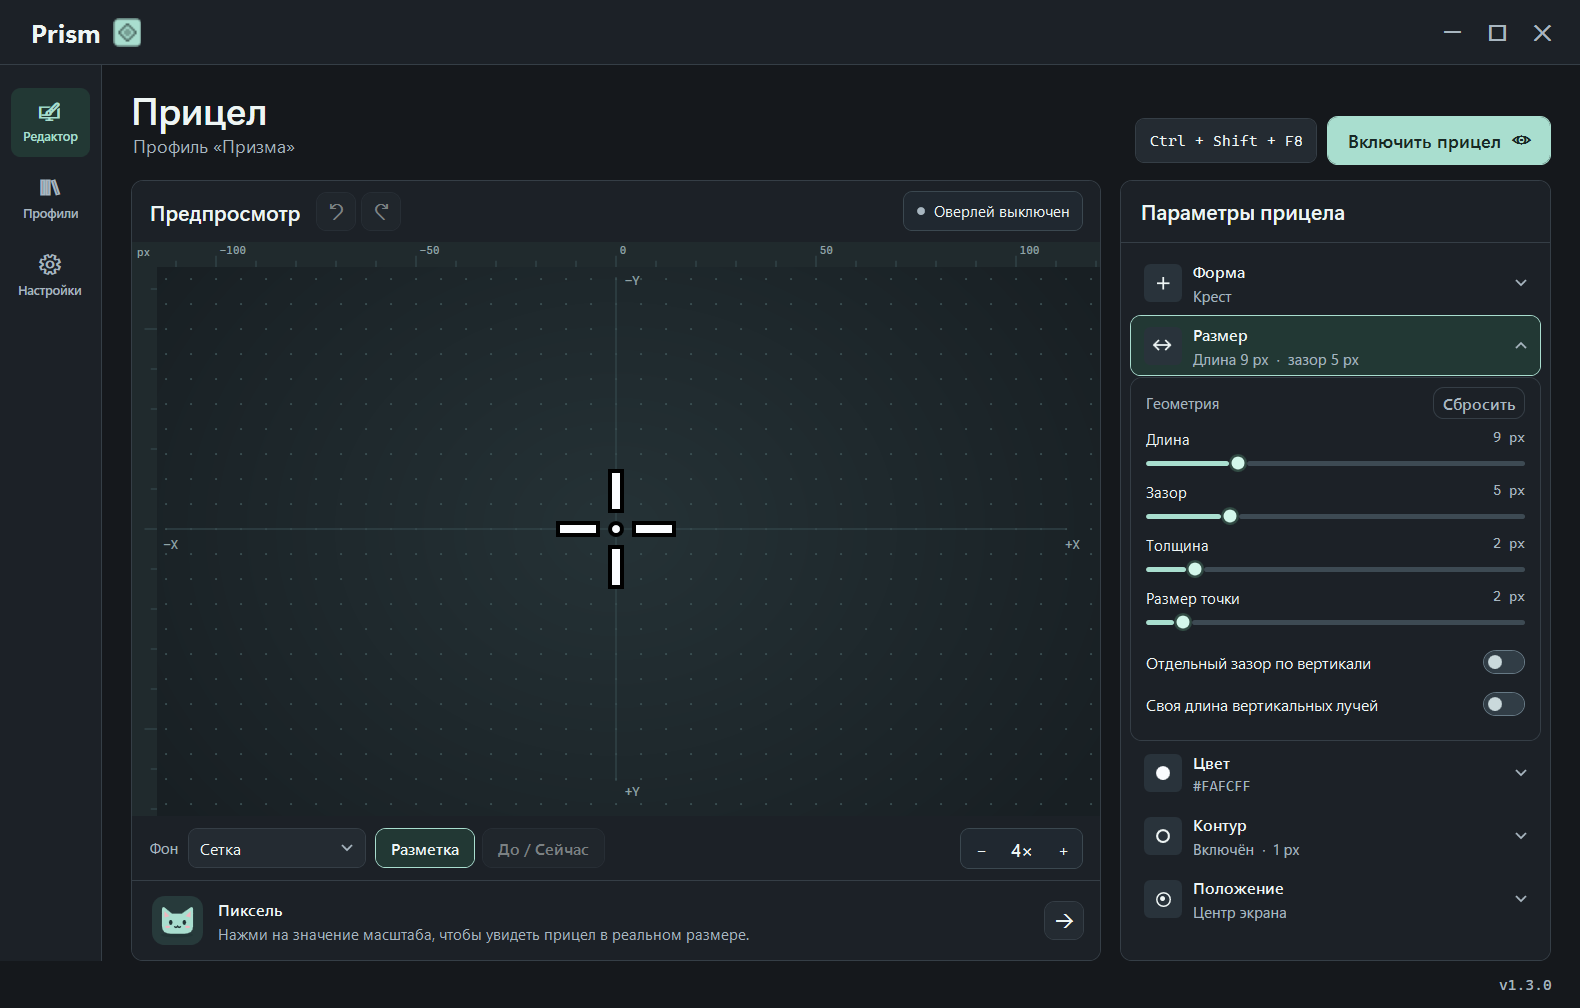
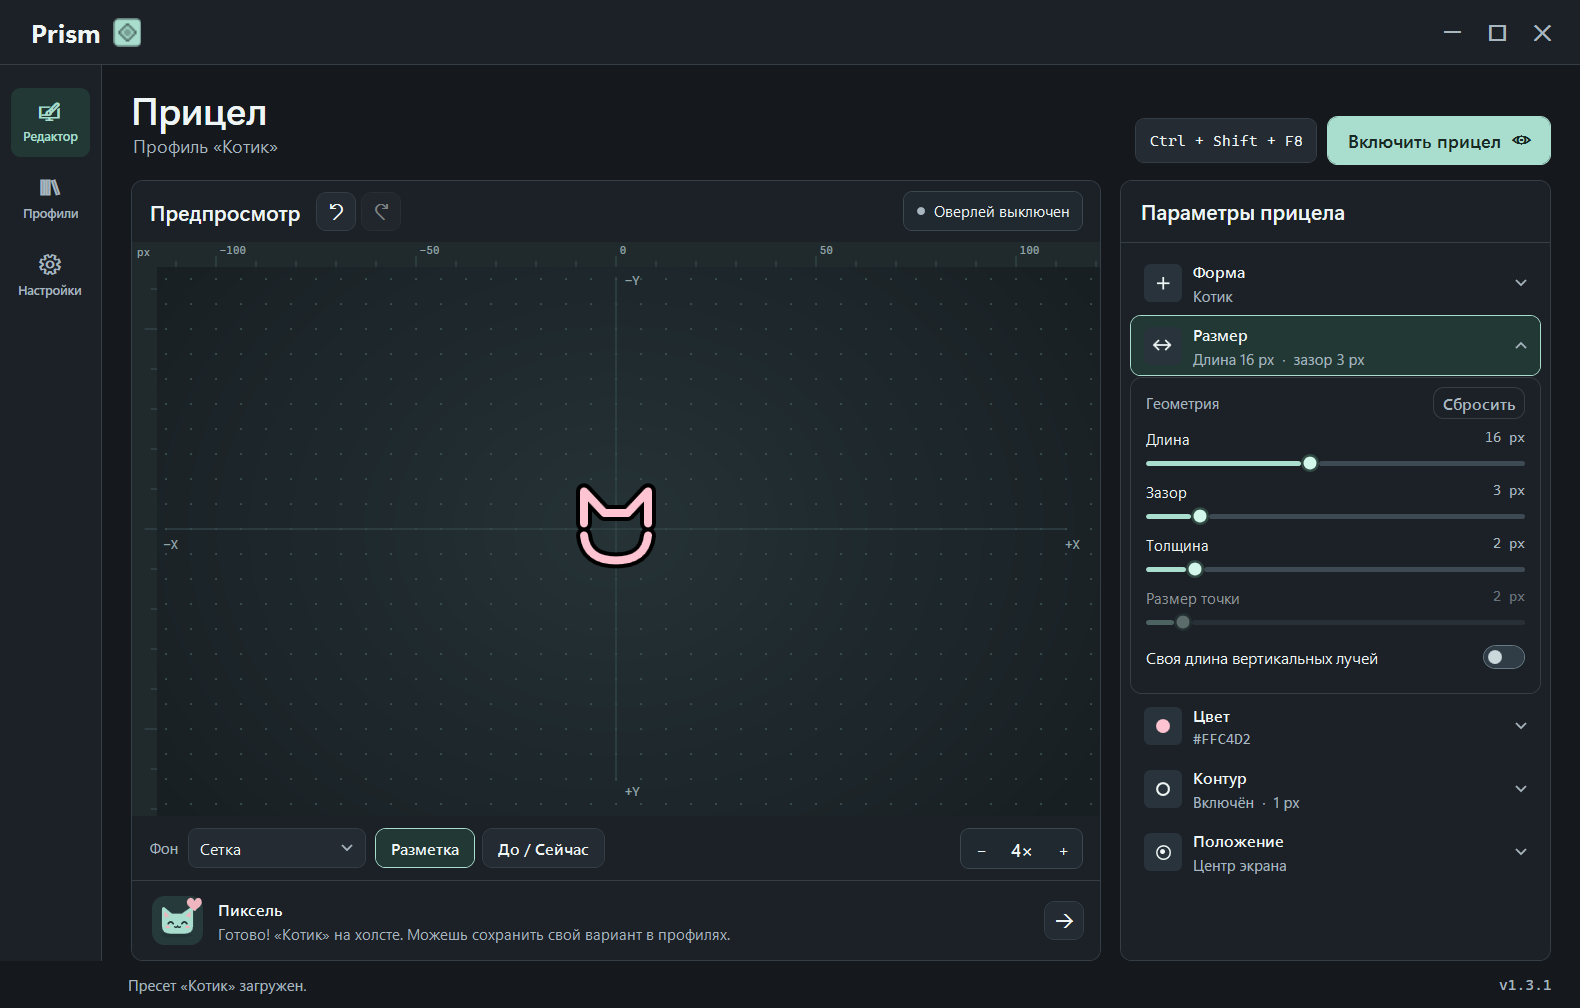
Add Pixel pet interaction and cat crosshair

diff --git a/MainWindow.xaml b/MainWindow.xaml
@@ -112,9 +112,11 @@
                   <Button DockPanel.Dock="Right" Style="{StaticResource IconButton}" Content="&#xE72A;" Width="32" VerticalAlignment="Center"
                           Click="NextTipClick" AutomationProperties.Name="Следующая подсказка" ToolTip="Следующая подсказка"/>
                   <Button DockPanel.Dock="Left" Width="47" Height="44" BorderThickness="0" Background="Transparent" Padding="0"
-                          VerticalAlignment="Center" Click="NextTipClick" AutomationProperties.Name="Пиксель. Следующая подсказка" Margin="0,0,9,0">
+                          VerticalAlignment="Center" Click="PetGuideClick" AutomationProperties.Name="Погладить Пикселя" ToolTip="Погладить Пикселя" Margin="0,0,9,0">
                     <local:PixelGuide x:Name="Pixel" Width="41" Height="39"/>
                   </Button>
+                  <Button x:Name="TryCatButton" DockPanel.Dock="Right" MinHeight="29" Content="Примерить «Котика»" Click="TryCatClick"
+                          Visibility="Collapsed" Margin="4,0,5,0" VerticalAlignment="Center"/>
                   <StackPanel VerticalAlignment="Center" Margin="0,0,7,0">
                     <TextBlock Text="Пиксель" FontWeight="SemiBold" Foreground="{StaticResource TextBrush}"/>
                     <TextBlock x:Name="TipText" Foreground="{StaticResource MutedBrush}" FontSize="12" TextWrapping="Wrap" AutomationProperties.LiveSetting="Polite" Margin="0,3,0,0"/>

diff --git a/ReticleView.cs b/ReticleView.cs
@@ -86,7 +86,7 @@ internal static class ReticleDrawing
             }
         }
 
-        if (r.Shape is ReticleShape.Chevron or ReticleShape.Brackets)
+        if (r.Shape is ReticleShape.Chevron or ReticleShape.Brackets or ReticleShape.Cat)
         {
             dc.PushTransform(new RotateTransform(r.Rotation));
             var cap = r.RoundedEnds ? PenLineCap.Round : PenLineCap.Square;
@@ -101,6 +101,8 @@ internal static class ReticleDrawing
                 DrawAngle(dc, pen, new Point(-r.Length, height - r.Gap), new Point(0, -r.Gap),
                     new Point(r.Length, height - r.Gap));
             }
+            else if (r.Shape == ReticleShape.Cat)
+                DrawCat(dc, pen, r);
             else
             {
                 double depth = r.Length / 2.0;
@@ -112,6 +114,27 @@ internal static class ReticleDrawing
             }
             dc.Pop();
         }
+    }
+
+    private static void DrawCat(DrawingContext dc, Pen pen, Reticle reticle)
+    {
+        double face = reticle.Length / 2.0;
+        double rim = Math.Max(3, reticle.Gap + reticle.Thickness / 2.0);
+        double ears = rim + face * 0.68;
+        var silhouette = new StreamGeometry();
+        using (var points = silhouette.Open())
+        {
+            points.BeginFigure(new Point(-face, rim * -0.35), false, false);
+            points.LineTo(new Point(-face, -ears), true, false);
+            points.LineTo(new Point(-face * 0.36, -rim), true, false);
+            points.LineTo(new Point(face * 0.36, -rim), true, false);
+            points.LineTo(new Point(face, -ears), true, false);
+            points.LineTo(new Point(face, rim * -0.35), true, false);
+            points.BeginFigure(new Point(-face, rim * 0.4), false, false);
+            points.QuadraticBezierTo(new Point(-face * 0.92, rim + face * 0.48), new Point(0, rim + face * 0.48), true, true);
+            points.QuadraticBezierTo(new Point(face * 0.92, rim + face * 0.48), new Point(face, rim * 0.4), true, true);
+        }
+        dc.DrawGeometry(null, pen, silhouette);
     }
 
     private static void DrawAngle(DrawingContext dc, Pen pen, Point start, Point bend, Point end)

diff --git a/Profiles.cs b/Profiles.cs
@@ -19,6 +19,9 @@ public partial class MainWindow
     private const int MaximumProfileFileSize = 256 * 1024;
     private const string ProfileFileFilter = "Профиль Prism (*.json)|*.json";
 
+    private static readonly Preset CatPreset = new("Котик", "Контур с ушками",
+        new Reticle { Shape = ReticleShape.Cat, Color = "#FFC4D2", Length = 16, Gap = 3, Thickness = 2, RoundedEnds = true, CenterDot = false });
+
     private static readonly Preset[] BuiltIns =
     {
         new("Призма", "Классический", new Reticle()),
@@ -26,7 +29,8 @@ public partial class MainWindow
         new("Орбита", "Кольцо", new Reticle { Shape = ReticleShape.Ring, Color = "#B5A3FF", Length = 19, CenterDot = false }),
         new("Вектор", "Т-образный", new Reticle { Shape = ReticleShape.TShape, Color = "#6DE3FF", Length = 13, Gap = 3, CenterDot = false }),
         new("Штрих", "Скруглённые лучи", new Reticle { Color = "#D9C59F", Length = 14, VerticalLength = 7, Thickness = 4, RoundedEnds = true, CenterDot = false }),
-        new("Ромб", "Диагональ с точкой", new Reticle { Shape = ReticleShape.Diagonal, Color = "#E8E5DF", SquareDot = true, DotSize = 4, Gap = 6 })
+        new("Ромб", "Диагональ с точкой", new Reticle { Shape = ReticleShape.Diagonal, Color = "#E8E5DF", SquareDot = true, DotSize = 4, Gap = 6 }),
+        CatPreset
     };
 
     private enum ProfileFilter { All, BuiltIn, Custom, Favorites }

diff --git a/Workspace.cs b/Workspace.cs
@@ -140,7 +140,31 @@ public partial class MainWindow
     {
         _tipIndex = (_tipIndex + 1) % Tips.Length;
         TipText.Text = Tips[_tipIndex];
+        Pixel.ShowHeart = false;
         Pixel.Excited = _tipIndex % 2 != 0;
+        TryCatButton.Visibility = Visibility.Collapsed;
+        AnimatePixel();
+    }
+
+    private void PetGuideClick(object sender, RoutedEventArgs e)
+    {
+        TipText.Text = "Мур-р! Хочешь примерить мои ушки?";
+        Pixel.Excited = true;
+        Pixel.ShowHeart = true;
+        TryCatButton.Visibility = Visibility.Visible;
+        AnimatePixel();
+    }
+
+    private void TryCatClick(object sender, RoutedEventArgs e)
+    {
+        ApplyPreset(CatPreset, navigateToEditor: false);
+        TipText.Text = "Готово! «Котик» на холсте. Можешь сохранить свой вариант в профилях.";
+        TryCatButton.Visibility = Visibility.Collapsed;
+        AnimatePixel();
+    }
+
+    private void AnimatePixel()
+    {
 
         if (!AllowsMotion)
             return;

diff --git a/PixelGuide.cs b/PixelGuide.cs
@@ -11,6 +11,17 @@ public sealed class PixelGuide : FrameworkElement
     private static readonly Brush Dark = ReticleDrawing.Brush("#223536");
     private static readonly Brush Light = ReticleDrawing.Brush("#D6F4EC");
     private bool _excited;
+    private static readonly Geometry Heart = Geometry.Parse("M34,12 C32,10 28,8 28,5 C28,1 33,0 34,4 C36,0 40,1 40,5 C40,8 36,10 34,12 Z");
+    private bool _showHeart;
+
+    internal bool ShowHeart
+    {
+        set
+        {
+            _showHeart = value;
+            InvalidateVisual();
+        }
+    }
 
     internal bool Excited
     {
@@ -41,6 +52,8 @@ public sealed class PixelGuide : FrameworkElement
             drawing.DrawEllipse(Dark, null, new Point(15, 21), 1.5, 2);
             drawing.DrawEllipse(Dark, null, new Point(26, 21), 1.5, 2);
         }
+        if (_showHeart)
+            drawing.DrawGeometry(InnerEar, null, Heart);
         drawing.DrawGeometry(null, new Pen(Dark, 1.15), Geometry.Parse("M18,24 Q19,26 20.5,24 Q22,26 23,24"));
         drawing.Pop();
     }

diff --git a/Editor.cs b/Editor.cs
@@ -11,7 +11,7 @@ namespace Prism;
 
 public partial class MainWindow
 {
-    private static readonly string[] ShapeNames = { "Крест", "Т-форма", "Точка", "Кольцо", "Диагональ", "Шеврон", "Уголки" };
+    private static readonly string[] ShapeNames = { "Крест", "Т-форма", "Точка", "Кольцо", "Диагональ", "Шеврон", "Уголки", "Котик" };
     private static readonly string[] Colors = { "#FAFCFF", "#B6FFDB", "#6DE3FF", "#A7B8FF", "#FF92AA", "#FFE493", "#ACFF61" };
 
     private static readonly string[] OutlineColors = { "#000000", "#333738", "#FFFFFF", "#D9C59F", "#3E6980", "#AC5568" };

diff --git a/Settings.cs b/Settings.cs
@@ -6,7 +6,7 @@ using System.Text.Json;
 
 namespace Prism;
 
-public enum ReticleShape { Cross, TShape, Dot, Ring, Diagonal, Chevron, Brackets }
+public enum ReticleShape { Cross, TShape, Dot, Ring, Diagonal, Chevron, Brackets, Cat }
 public enum PlacementMode { ActiveMonitor, FixedMonitor }
 public enum OverlayStartupMode { Restore, Enabled, Disabled }
 
